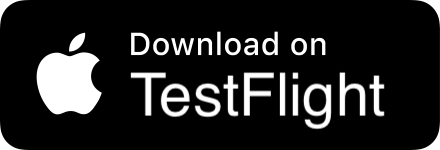
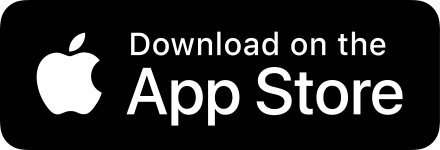
AppStore Link

Changed region(s): [[0.2659, 0.4267, 0.9159, 0.88], [0.7682, 0.2133, 0.8864, 0.3733]]

diff --git a/_site/index.html b/_site/index.html
@@ -100,8 +100,6 @@
     
 
     
-
-    
         <script>
             $(function() {
                 $(".iphoneScreen").attr('src', '/assets/screenshot/yourscreenshot.png');
@@ -109,6 +107,8 @@
                 console.log("/assets/screenshot/yourscreenshot.png");
             });
         </script>
+    
+
     
 
     
@@ -152,7 +152,7 @@
                         </div>
                         <div class="downloadButtonsContainer">
                             
-                            <a class="appStoreLink" href="https://testflight.apple.com/join/8WfE9zq2"><img class="appStore" src="assets/appstore.png"></a>
+                            <a class="appStoreLink" href="https://apps.apple.com/us/app/exire/id1506538485"><img class="appStore" src="assets/appstore.png"></a>
                         </div>
                     </div>
                     <div class="features">
@@ -321,7 +321,7 @@
 				<img src="/assets/iSTEM.png" style="width:160px;height:80px;">
 			</a>
 			<p class="footerSupportText">
-				Started in 2018, iSTEM@Stevens admits and nurtures talent with gifted hands of skills.
+				iSTEM@Stevens admits and nurtures talent with gifted hands of skills.
 			</p>
 		</div>
 		<a href="https://stevens.edu/">
@@ -349,7 +349,7 @@
 		
 
 		
-			<a href="https://github.com/haydendaly">
+			<a href="https://github.com/exire-ai">
 				<span class="fa-stack fa-1x">
 					<i class="socialIconBack fas fa-circle fa-stack-2x"></i>
 					<i class="socialIconTop fab fa-github fa-stack-1x"></i>
